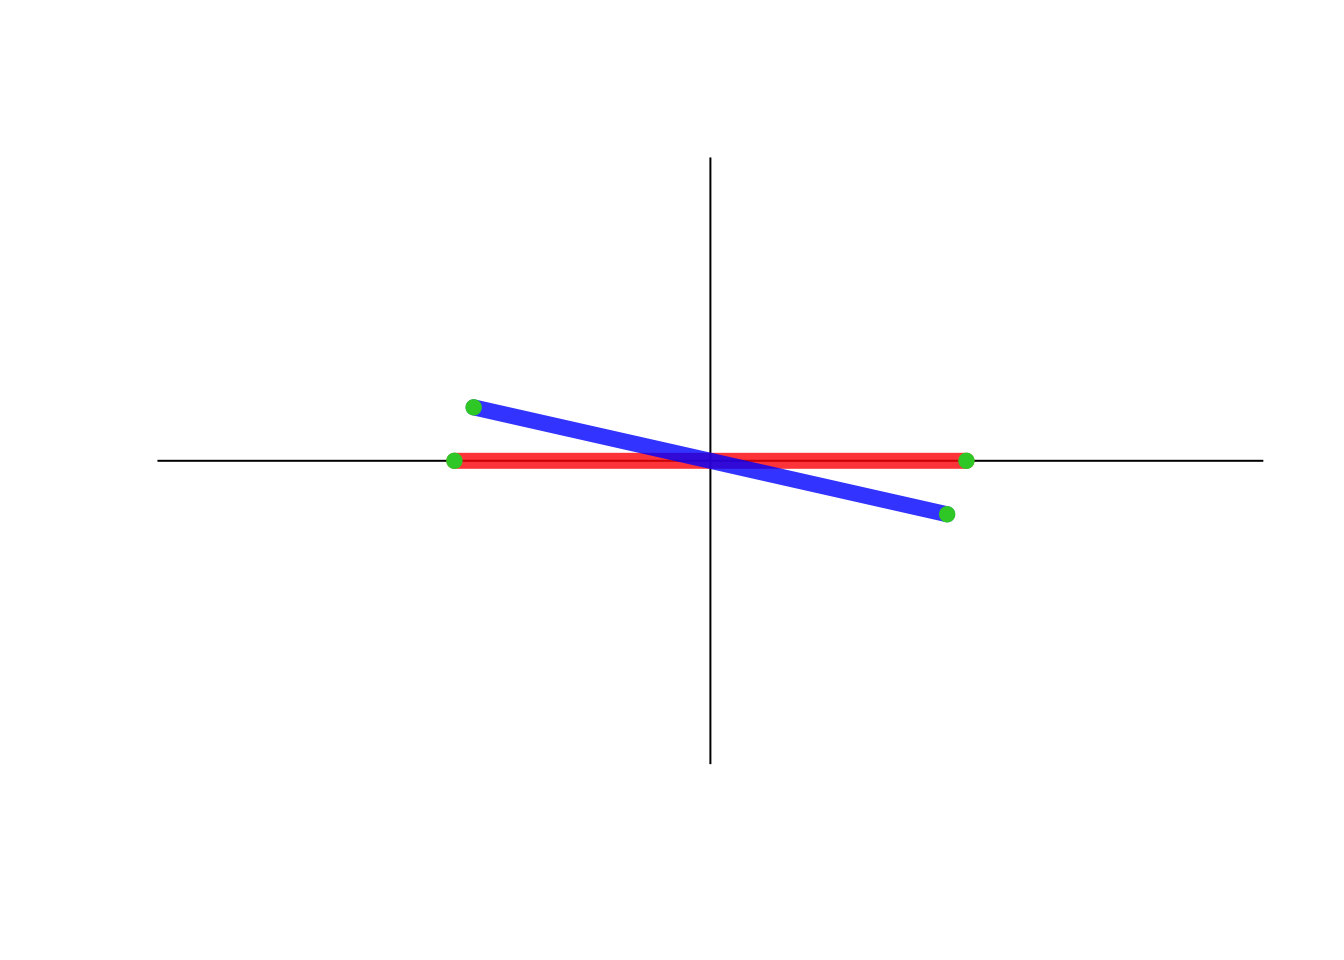
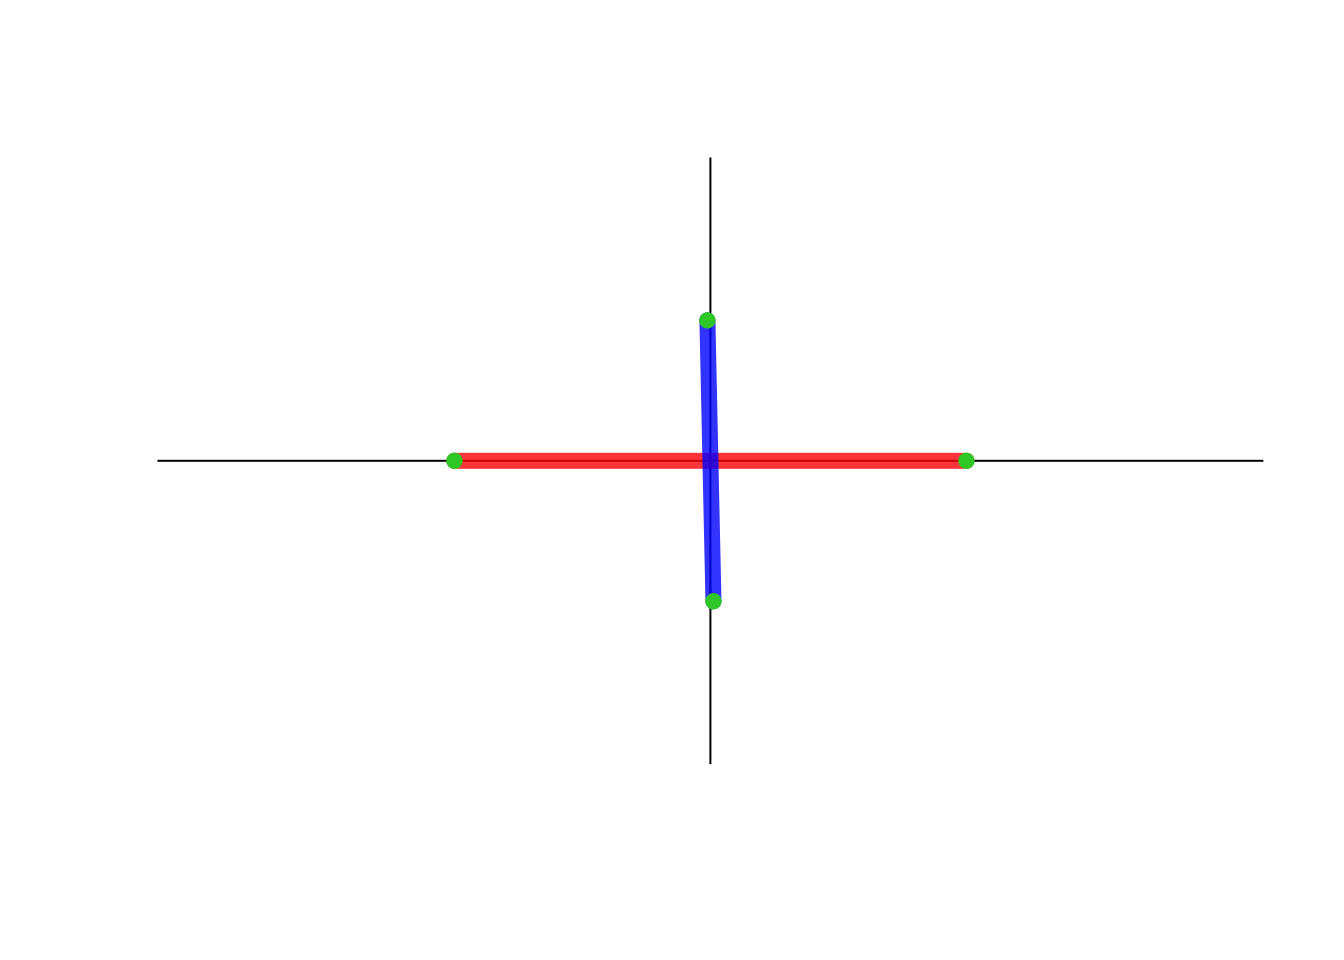
text edit

Changed region(s): [[0.3438, 0.3125, 0.7188, 0.625]]

diff --git a/public/2018/06/12/calculate-pi-by-throwing-needles/index.html b/public/2018/06/12/calculate-pi-by-throwing-needles/index.html
@@ -71,7 +71,7 @@
     <div class="article-content">
       <p>Suppose that you drop a short needle on ruled paper, what is then the probability that the needle comes to lie in a position where it crosses one of the lines? - Georges Buffon, 1777</p>
 <p>When the needle is the right length, the answer is pi!</p>
-<p>Here is a quick example in R of approximating the value of Pi by tossing digital needles onto lined paper.</p>
+<p>Here is a quick example in R of approximating the value of Pi by digitally tossing a box of matches onto a sheet of lined paper.</p>
 <pre class="r"><code>library(retistruct)</code></pre>
 <p>Make a needle</p>
 <pre class="r"><code>match_stick_length &lt;- 20
@@ -102,9 +102,9 @@ single_match</code></pre>
         cos.angle), 2, 2))
   
 after_rotation</code></pre>
-<pre><code>##              [,1]     [,2]
-## point_1 -9.247011  3.80694
-## point_2  9.247011 -3.80694</code></pre>
+<pre><code>##               [,1]      [,2]
+## point_1  0.1190636 -9.999291
+## point_2 -0.1190636  9.999291</code></pre>
 <p><img src="/post/2018-06-12-calculate-pi-by-throwing-needles_files/figure-html/unnamed-chunk-5-1.png" width="672" /></p>
 <p>Then translate that line onto the table</p>
 <pre class="r"><code>  # Translation
@@ -141,8 +141,8 @@ after_rotation</code></pre>
 
 Throwing_matches()</code></pre>
 <pre><code>##                x        y
-## Point_1 43.18326 67.46142
-## Point_2 33.21018 68.19461</code></pre>
+## Point_1 50.61685 36.22574
+## Point_2 41.00933 38.99984</code></pre>
 <pre class="r"><code>for(i in 1:1000){
 Throwing_matches()
 }</code></pre>
@@ -188,23 +188,23 @@ colnames(crosses) &lt;- c(&quot;x.cross&quot;, &quot;y.cross&quot;, &quot;x.p1&q
                     &quot;y.p2&quot;, &quot;x.surface.p1&quot;, &quot;y.surface.p1&quot;, &quot;x.surface.p2&quot;, 
                     &quot;y.surface.p2&quot;)
 head(crosses)</code></pre>
-<pre><code>##       x.cross y.cross     x.p1     y.p1     x.p2     y.p2 x.surface.p1
-## [1,] 58.90344      20 55.73814 10.72557 58.96814 20.18956            0
-## [2,] 63.25248      20 62.99127 14.06639 63.43107 24.05671            0
-## [3,] 26.63572      20 29.31486 11.21622 26.39745 20.78120            0
-## [4,] 90.50716      60 91.17167 57.75727 88.33080 67.34526            0
-## [5,] 29.52569      40 31.44506 42.20581 24.88078 34.66191            0
-## [6,] 50.78764      60 53.36438 62.24894 45.83034 55.67336            0
+<pre><code>##       x.cross y.cross     x.p1     y.p1      x.p2     y.p2 x.surface.p1
+## [1,] 12.31511      20 14.36624 22.62863  8.214425 14.74477            0
+## [2,] 45.79014      80 44.77192 82.43566 48.628934 73.20942            0
+## [3,] 70.15395      20 74.24544 28.20362 69.782313 19.25485            0
+## [4,] 49.66294      60 49.75337 59.89791 43.122492 67.38333            0
+## [5,] 59.91925      20 60.98953 22.25686 56.704609 13.22141            0
+## [6,] 74.89057      60 72.66679 55.32310 76.960902 64.35419            0
 ##      y.surface.p1 x.surface.p2 y.surface.p2
 ## [1,]           20          100           20
-## [2,]           20          100           20
+## [2,]           80          100           80
 ## [3,]           20          100           20
 ## [4,]           60          100           60
-## [5,]           40          100           40
+## [5,]           20          100           20
 ## [6,]           60          100           60</code></pre>
 <p><img src="/post/2018-06-12-calculate-pi-by-throwing-needles_files/figure-html/unnamed-chunk-19-1.png" width="672" /></p>
 <pre class="r"><code>pi_estimate &lt;- (2* match_stick_length * number_of_matches_in_a_box)/(distance_between_surface_lines * length(crosses[,1]))</code></pre>
-<pre><code>## [1] 3.172589</code></pre>
+<pre><code>## [1] 3.194888</code></pre>
 
     </div>
   </article>

diff --git a/content/post/2018-06-12-calculate-pi-by-throwing-needles.html b/content/post/2018-06-12-calculate-pi-by-throwing-needles.html
@@ -14,7 +14,7 @@ tags:
 
 <p>Suppose that you drop a short needle on ruled paper, what is then the probability that the needle comes to lie in a position where it crosses one of the lines? - Georges Buffon, 1777</p>
 <p>When the needle is the right length, the answer is pi!</p>
-<p>Here is a quick example in R of approximating the value of Pi by tossing digital needles onto lined paper.</p>
+<p>Here is a quick example in R of approximating the value of Pi by digitally tossing a box of matches onto a sheet of lined paper.</p>
 <pre class="r"><code>library(retistruct)</code></pre>
 <p>Make a needle</p>
 <pre class="r"><code>match_stick_length &lt;- 20
@@ -45,9 +45,9 @@ single_match</code></pre>
         cos.angle), 2, 2))
   
 after_rotation</code></pre>
-<pre><code>##              [,1]     [,2]
-## point_1 -9.247011  3.80694
-## point_2  9.247011 -3.80694</code></pre>
+<pre><code>##               [,1]      [,2]
+## point_1  0.1190636 -9.999291
+## point_2 -0.1190636  9.999291</code></pre>
 <p><img src="/post/2018-06-12-calculate-pi-by-throwing-needles_files/figure-html/unnamed-chunk-5-1.png" width="672" /></p>
 <p>Then translate that line onto the table</p>
 <pre class="r"><code>  # Translation
@@ -84,8 +84,8 @@ after_rotation</code></pre>
 
 Throwing_matches()</code></pre>
 <pre><code>##                x        y
-## Point_1 43.18326 67.46142
-## Point_2 33.21018 68.19461</code></pre>
+## Point_1 50.61685 36.22574
+## Point_2 41.00933 38.99984</code></pre>
 <pre class="r"><code>for(i in 1:1000){
 Throwing_matches()
 }</code></pre>
@@ -131,20 +131,20 @@ colnames(crosses) &lt;- c(&quot;x.cross&quot;, &quot;y.cross&quot;, &quot;x.p1&q
                     &quot;y.p2&quot;, &quot;x.surface.p1&quot;, &quot;y.surface.p1&quot;, &quot;x.surface.p2&quot;, 
                     &quot;y.surface.p2&quot;)
 head(crosses)</code></pre>
-<pre><code>##       x.cross y.cross     x.p1     y.p1     x.p2     y.p2 x.surface.p1
-## [1,] 58.90344      20 55.73814 10.72557 58.96814 20.18956            0
-## [2,] 63.25248      20 62.99127 14.06639 63.43107 24.05671            0
-## [3,] 26.63572      20 29.31486 11.21622 26.39745 20.78120            0
-## [4,] 90.50716      60 91.17167 57.75727 88.33080 67.34526            0
-## [5,] 29.52569      40 31.44506 42.20581 24.88078 34.66191            0
-## [6,] 50.78764      60 53.36438 62.24894 45.83034 55.67336            0
+<pre><code>##       x.cross y.cross     x.p1     y.p1      x.p2     y.p2 x.surface.p1
+## [1,] 12.31511      20 14.36624 22.62863  8.214425 14.74477            0
+## [2,] 45.79014      80 44.77192 82.43566 48.628934 73.20942            0
+## [3,] 70.15395      20 74.24544 28.20362 69.782313 19.25485            0
+## [4,] 49.66294      60 49.75337 59.89791 43.122492 67.38333            0
+## [5,] 59.91925      20 60.98953 22.25686 56.704609 13.22141            0
+## [6,] 74.89057      60 72.66679 55.32310 76.960902 64.35419            0
 ##      y.surface.p1 x.surface.p2 y.surface.p2
 ## [1,]           20          100           20
-## [2,]           20          100           20
+## [2,]           80          100           80
 ## [3,]           20          100           20
 ## [4,]           60          100           60
-## [5,]           40          100           40
+## [5,]           20          100           20
 ## [6,]           60          100           60</code></pre>
 <p><img src="/post/2018-06-12-calculate-pi-by-throwing-needles_files/figure-html/unnamed-chunk-19-1.png" width="672" /></p>
 <pre class="r"><code>pi_estimate &lt;- (2* match_stick_length * number_of_matches_in_a_box)/(distance_between_surface_lines * length(crosses[,1]))</code></pre>
-<pre><code>## [1] 3.172589</code></pre>
+<pre><code>## [1] 3.194888</code></pre>
